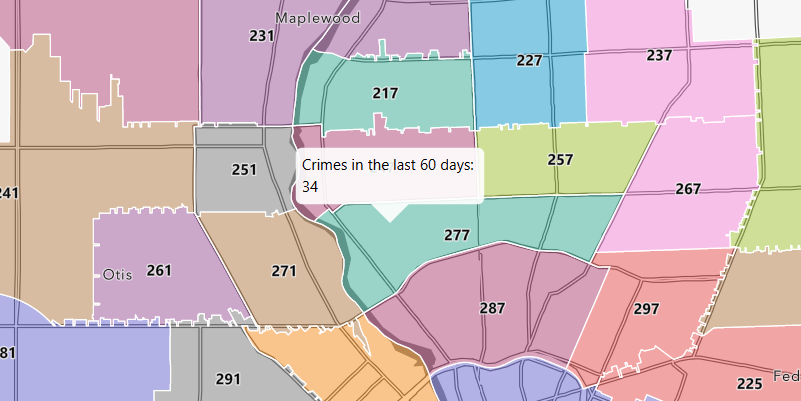
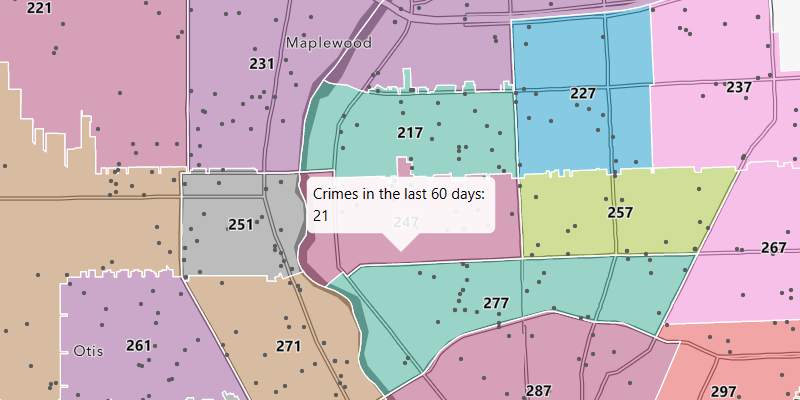
Made data points visible per updated design

diff --git a/map/query-features-with-arcade-expression/src/main/java/com/esri/samples/query_features_with_arcade_expression/QueryFeaturesWithArcadeExpressionSample.java b/map/query-features-with-arcade-expression/src/main/java/com/esri/samples/query_features_with_arcade_expression/QueryFeaturesWithArcadeExpressionSample.java
@@ -94,9 +94,6 @@ public class QueryFeaturesWithArcadeExpressionSample extends Application {
               policeBeatsLayer = operationalLayer;
               operationalLayer.setVisible(true);
               progressIndicator.setVisible(false);
-            } else {
-              // if the operational layer is any layer other than the RPD Beats layer, don't show it.
-              operationalLayer.setVisible(false);
             }
           }
 
